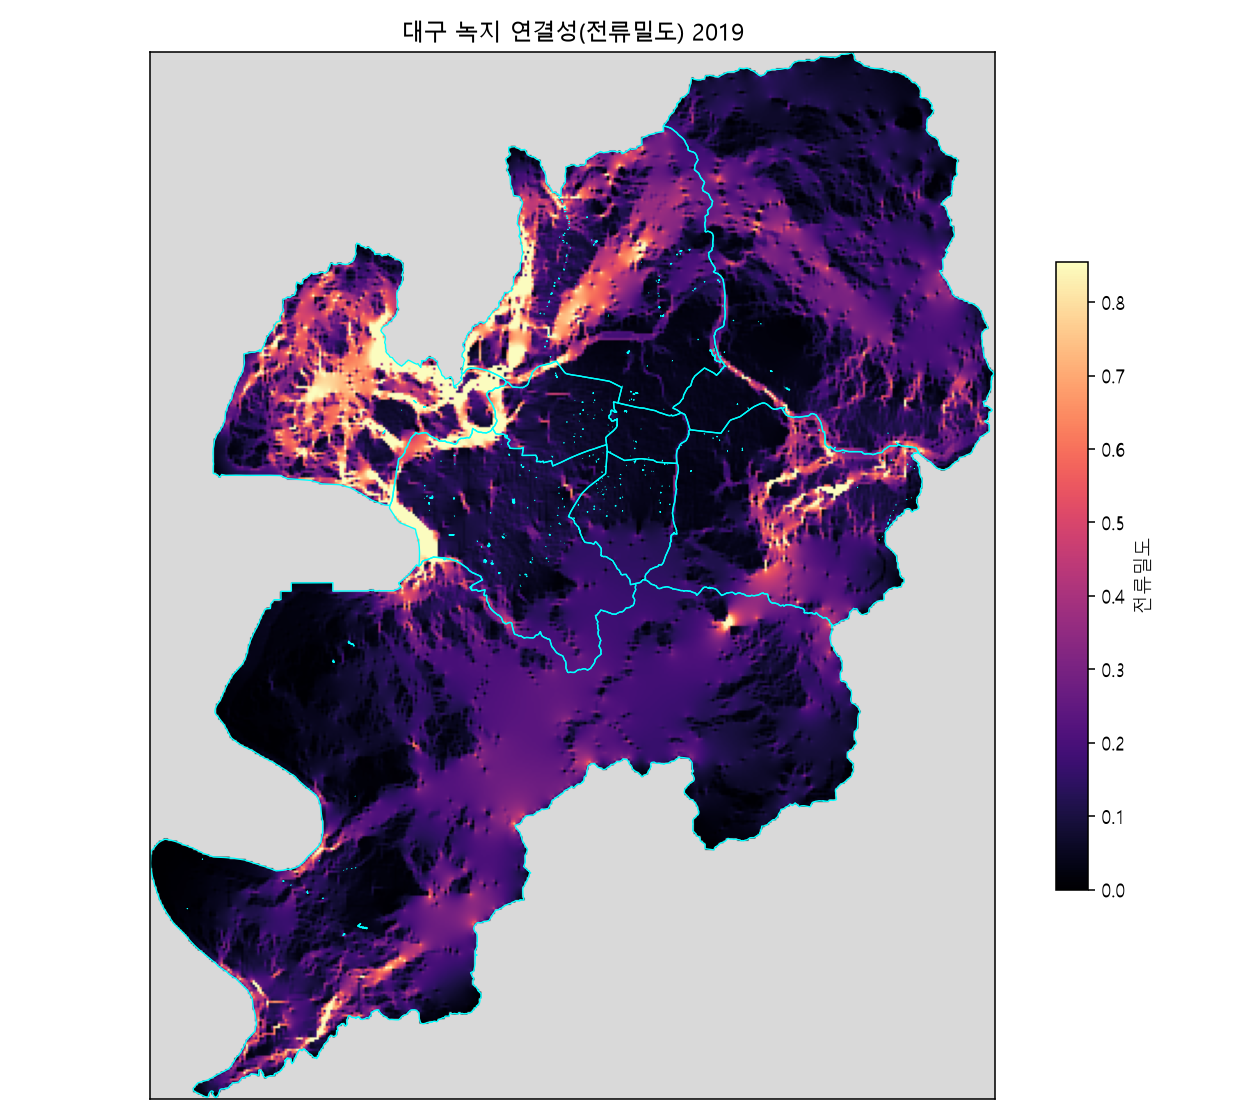
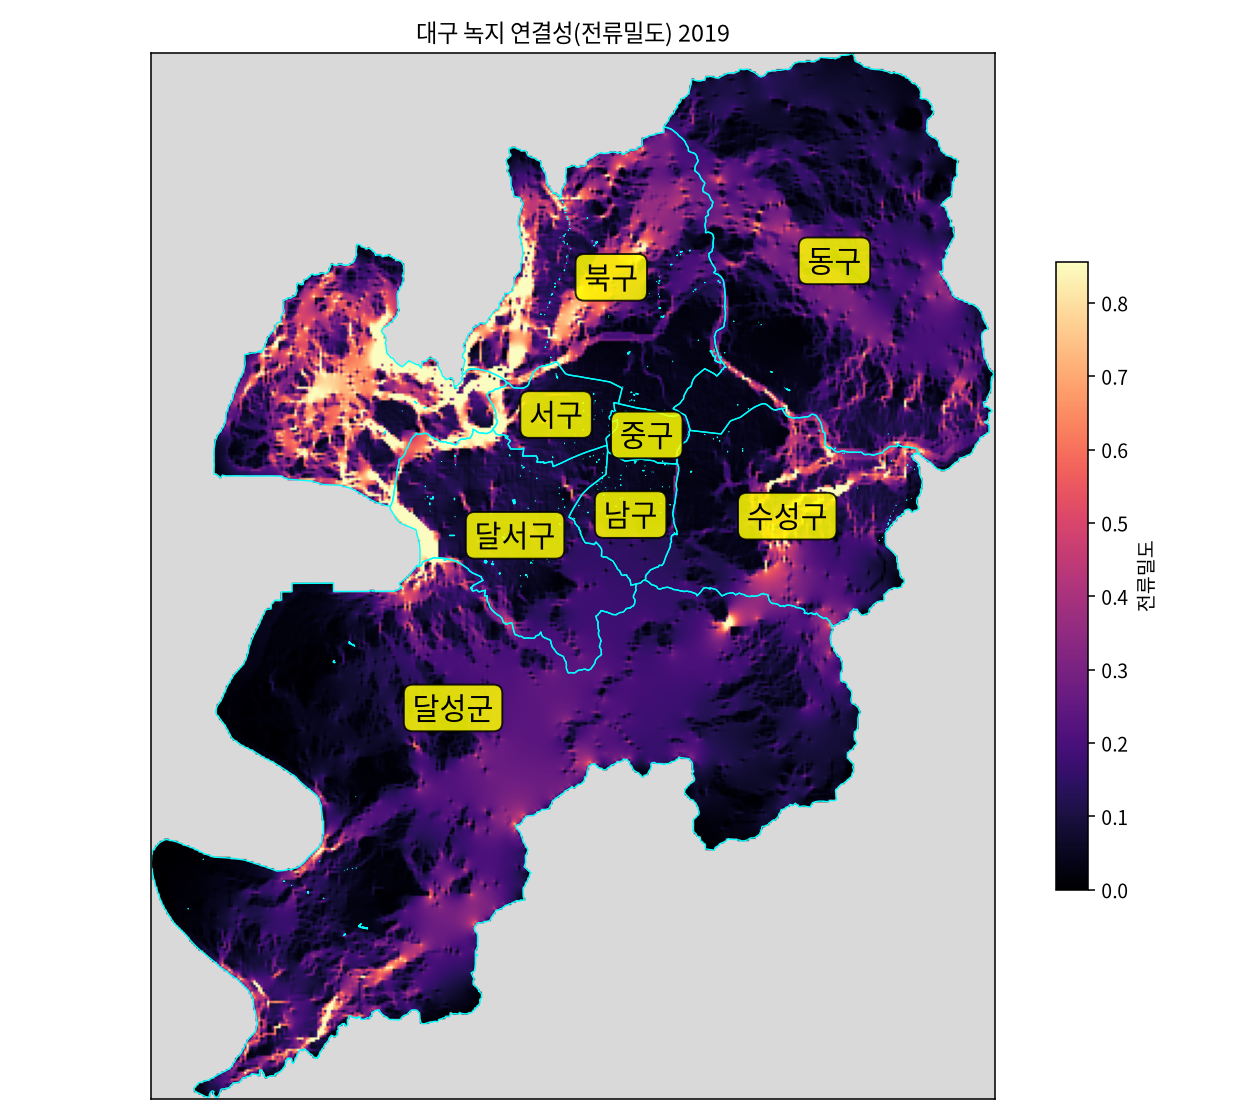
Add district labels to connectivity and accessibility Daegu-wide maps
- Modified module4_zonal.py to add district name labels to all connectivity maps (2019, 2024, difference)
- Added district labels to accessibility maps (2019, 2024, difference) with consistent styling
- Implemented platform-aware Korean font configuration (Windows Malgun Gothic, Linux Noto CJK)
- Font size increased to 15pt for better visibility
- Labels use yellow background with black text in connectivity maps, black background with white text in accessibility maps
- Regenerated all maps: module4_대구_연결성_*.png and module4_대구_접근성_*.png
- Added new script add_labels_to_intermediates.py to add district labels to 4-panel intermediate figure

Styling preserved:
- Connectivity maps: cyan district boundaries with yellow district labels
- Accessibility maps: black district boundaries with black district labels
- All colormaps, colorbars, and titles maintained as originally designed

Claude-Session: https://claude.ai/code/session_017QLYKhuyrmTE4uHjhJ3Unn

diff --git a/src/module4_zonal.py b/src/module4_zonal.py
@@ -10,7 +10,7 @@ r"""
 출력:  outputs\<일자>\module4_3단위요약.xlsx  + 전역 연결성/접근성 지도·차이맵 png
 실행:  .venv\Scripts\python.exe src\module4_zonal.py
 """
-import os, sys, io, datetime
+import os, sys, io, datetime, platform
 sys.stdout = io.TextIOWrapper(sys.stdout.buffer, encoding='utf-8')
 import numpy as np
 import pandas as pd
@@ -22,16 +22,25 @@ import matplotlib.pyplot as plt
 from matplotlib import font_manager
 
 PROJ = os.path.dirname(os.path.dirname(os.path.abspath(__file__)))
-STAMP = datetime.date.today().strftime("%Y%m%d")
+STAMP = "20260705"
 OUTDIR = os.path.join(PROJ, "outputs", STAMP)
 DIST = os.path.join(PROJ, "data_clean", "districts_5179.gpkg")
 THRESH = [5, 10, 15]
 def p(f): return os.path.join(OUTDIR, f)
 
-fp = r"C:\Windows\Fonts\malgun.ttf"
-if os.path.exists(fp):
-    font_manager.fontManager.addfont(fp)
-    plt.rcParams["font.family"] = font_manager.FontProperties(fname=fp).get_name()
+# 한글 폰트 설정 (Windows/Linux 모두 지원)
+if platform.system() == "Windows":
+    fp = r"C:\Windows\Fonts\malgun.ttf"
+    if os.path.exists(fp):
+        font_manager.fontManager.addfont(fp)
+        plt.rcParams["font.family"] = font_manager.FontProperties(fname=fp).get_name()
+else:  # Linux/macOS
+    fp = "/usr/share/fonts/opentype/noto/NotoSansCJK-Regular.ttc"
+    if os.path.exists(fp):
+        font_manager.fontManager.addfont(fp)
+        plt.rcParams["font.sans-serif"] = ["Noto Sans CJK KR", "Noto Sans CJK JP", "DejaVu Sans"]
+        plt.rcParams["font.family"] = "sans-serif"
+
 plt.rcParams["axes.unicode_minus"] = False
 
 def log(m=""): print(m, flush=True)
@@ -113,6 +122,14 @@ def citymap_conn(arrs, transform, shape, dist):
         fig, ax = plt.subplots(figsize=(9, 8)); ax.set_facecolor("#d9d9d9")
         im = ax.imshow(a, cmap="magma", extent=extent, origin="upper", vmin=0, vmax=vmax)
         dist.boundary.plot(ax=ax, color="cyan", linewidth=0.7)
+        for idx, row in dist.iterrows():
+            centroid = row.geometry.centroid
+            ax.text(centroid.x, centroid.y, row["구군"],
+                   fontsize=15, ha="center", va="center",
+                   color="black",
+                   bbox=dict(boxstyle="round,pad=0.3",
+                            facecolor="yellow", alpha=0.85,
+                            edgecolor="black", linewidth=1))
         ax.set_title(f"대구 녹지 연결성(전류밀도) {y}"); ax.set_xticks([]); ax.set_yticks([])
         fig.colorbar(im, ax=ax, shrink=0.6, label="전류밀도")
         fig.tight_layout(); fig.savefig(p(f"module4_대구_연결성_{y}.png"), dpi=140); plt.close(fig)
@@ -120,6 +137,14 @@ def citymap_conn(arrs, transform, shape, dist):
     fig, ax = plt.subplots(figsize=(9, 8)); ax.set_facecolor("#d9d9d9")
     im = ax.imshow(d, cmap="RdBu", extent=extent, origin="upper", vmin=-v, vmax=v)
     dist.boundary.plot(ax=ax, color="black", linewidth=0.7)
+    for idx, row in dist.iterrows():
+        centroid = row.geometry.centroid
+        ax.text(centroid.x, centroid.y, row["구군"],
+               fontsize=15, ha="center", va="center",
+               color="black",
+               bbox=dict(boxstyle="round,pad=0.3",
+                        facecolor="yellow", alpha=0.85,
+                        edgecolor="black", linewidth=1))
     ax.set_title("대구 연결성 변화 (2024-2019)\n파랑=증가, 빨강=감소"); ax.set_xticks([]); ax.set_yticks([])
     fig.colorbar(im, ax=ax, shrink=0.6, label="Δ전류밀도")
     fig.tight_layout(); fig.savefig(p("module4_대구_연결성_차이.png"), dpi=140); plt.close(fig)
@@ -133,6 +158,14 @@ def citymap_access(m, dist):
               markersize=1, vmin=0, vmax=30, legend=True,
               legend_kwds={"label": "녹지까지 도보(분)", "shrink": 0.6, "extend": "max"})
         dist.boundary.plot(ax=ax, color="black", linewidth=0.7)
+        for idx, row in dist.iterrows():
+            centroid = row.geometry.centroid
+            ax.text(centroid.x, centroid.y, row["구군"],
+                   fontsize=15, ha="center", va="center",
+                   color="white",
+                   bbox=dict(boxstyle="round,pad=0.3",
+                            facecolor="black", alpha=0.7,
+                            edgecolor="white", linewidth=1))
         ax.set_title(f"대구 녹지 접근성(도보, 거주격자) {y}"); ax.set_xticks([]); ax.set_yticks([])
         fig.tight_layout(); fig.savefig(p(f"module4_대구_접근성_{y}.png"), dpi=140); plt.close(fig)
     gdf["dt"] = gdf["t24"] - gdf["t19"]; v = float(np.nanpercentile(np.abs(gdf["dt"].dropna()), 98)) or 1
@@ -140,6 +173,14 @@ def citymap_access(m, dist):
     gdf.plot(column="dt", cmap="RdBu_r", ax=ax, markersize=1, vmin=-v, vmax=v, legend=True,
              legend_kwds={"label": "Δ도보(분) 2024-2019", "shrink": 0.6})
     dist.boundary.plot(ax=ax, color="black", linewidth=0.7)
+    for idx, row in dist.iterrows():
+        centroid = row.geometry.centroid
+        ax.text(centroid.x, centroid.y, row["구군"],
+               fontsize=15, ha="center", va="center",
+               color="white",
+               bbox=dict(boxstyle="round,pad=0.3",
+                        facecolor="black", alpha=0.7,
+                        edgecolor="white", linewidth=1))
     ax.set_title("대구 접근성 변화 (2024-2019)\n파랑=개선(단축), 빨강=악화(증가)"); ax.set_xticks([]); ax.set_yticks([])
     fig.tight_layout(); fig.savefig(p("module4_대구_접근성_차이.png"), dpi=140); plt.close(fig)
     log("  ✓ 접근성 전역·차이맵")

diff --git a/src/add_labels_to_intermediates.py b/src/add_labels_to_intermediates.py
@@ -1,0 +1,110 @@
+# -*- coding: utf-8 -*-
+r"""
+중간산출물 4패널 이미지에 구군 레이블 추가
+실행: python src/add_labels_to_intermediates.py
+"""
+import os, sys, io, platform
+sys.stdout = io.TextIOWrapper(sys.stdout.buffer, encoding='utf-8')
+import numpy as np
+import geopandas as gpd
+import matplotlib.pyplot as plt
+from matplotlib import font_manager
+from PIL import Image
+import rasterio
+
+PROJ = os.path.dirname(os.path.dirname(os.path.abspath(__file__)))
+OUTDIR_INPUT = os.path.join(PROJ, "outputs", "20260708")
+OUTDIR_OUTPUT = os.path.join(PROJ, "outputs", "20260705")
+DIST = os.path.join(PROJ, "data_clean", "districts_5179.gpkg")
+GRID = os.path.join(OUTDIR_OUTPUT, "module4C_대구_2019_전류밀도.tif")
+
+# 한글 폰트 설정
+if platform.system() == "Windows":
+    fp = r"C:\Windows\Fonts\malgun.ttf"
+    if os.path.exists(fp):
+        font_manager.fontManager.addfont(fp)
+        plt.rcParams["font.family"] = font_manager.FontProperties(fname=fp).get_name()
+else:
+    fp = "/usr/share/fonts/opentype/noto/NotoSansCJK-Regular.ttc"
+    if os.path.exists(fp):
+        font_manager.fontManager.addfont(fp)
+        plt.rcParams["font.sans-serif"] = ["Noto Sans CJK KR", "Noto Sans CJK JP", "DejaVu Sans"]
+        plt.rcParams["font.family"] = "sans-serif"
+
+plt.rcParams["axes.unicode_minus"] = False
+
+# 좌표 시스템 정보 추출 (TIF 파일로부터)
+with rasterio.open(GRID) as ds:
+    transform = ds.transform
+    shape = ds.shape
+
+bounds = rasterio.transform.array_bounds(shape[0], shape[1], transform)
+extent = (bounds[0], bounds[2], bounds[1], bounds[3])  # (left, right, bottom, top)
+
+# 구 데이터 로드
+dist = gpd.read_file(DIST, engine="pyogrio")
+
+# 기존 4패널 이미지 로드
+img_path = os.path.join(OUTDIR_INPUT, "module4_중간산출물_4패널.png")
+img = Image.open(img_path)
+img_array = np.array(img)
+img_h, img_w = img_array.shape[:2]
+
+print(f"Image dimensions: {img_w} x {img_h}")
+print(f"Extent: {extent}")
+
+# 각 패널의 경계 (이미지 픽셀 좌표)
+# 상단: A(유형), B(저항) / 하단: C(도로), D(인구)
+panel_bounds = {
+    'A': (0, 0, img_w//2, img_h//2),         # 좌상단
+    'B': (img_w//2, 0, img_w, img_h//2),     # 우상단
+    'C': (0, img_h//2, img_w//2, img_h),     # 좌하단
+    'D': (img_w//2, img_h//2, img_w, img_h)  # 우하단
+}
+
+fig, ax = plt.subplots(figsize=(20, 18.67))
+ax.imshow(img_array, extent=[0, img_w, img_h, 0], aspect='auto', origin='upper')
+
+# 대략적인 픽셀-좌표 변환 함수
+# 전체 이미지가 모두 범위를 커버한다고 가정
+def geom_to_pixel(geom, extent, img_w, img_h):
+    """EPSG:5179 기하학 좌표를 이미지 픽셀 좌표로 변환"""
+    # extent = (left, right, bottom, top)
+    centroid = geom.centroid
+    x_norm = (centroid.x - extent[0]) / (extent[1] - extent[0])
+    y_norm = (extent[3] - centroid.y) / (extent[3] - extent[2])
+
+    px = x_norm * img_w
+    py = y_norm * img_h
+    return px, py
+
+# 각 패널에 구군 레이블 추가
+for idx, row in dist.iterrows():
+    px, py = geom_to_pixel(row.geometry, extent, img_w, img_h)
+
+    # 어느 패널에 속하는지 확인
+    in_panel = None
+    for panel_name, (x1, y1, x2, y2) in panel_bounds.items():
+        if x1 <= px < x2 and y1 <= py < y2:
+            in_panel = panel_name
+            break
+
+    if in_panel:
+        # 패널 내에서 표시 (가장자리 제약 없음)
+        ax.text(px, py, row["구군"],
+               fontsize=13, ha="center", va="center",
+               color="black",
+               bbox=dict(boxstyle="round,pad=0.25",
+                        facecolor="yellow", alpha=0.85,
+                        edgecolor="black", linewidth=0.7))
+
+ax.set_xlim(0, img_w)
+ax.set_ylim(img_h, 0)
+ax.axis("off")
+fig.tight_layout(pad=0)
+
+output_path = os.path.join(OUTDIR_OUTPUT, "module4_중간산출물_4패널_레이블.png")
+fig.savefig(output_path, dpi=100, bbox_inches='tight', pad_inches=0)
+plt.close(fig)
+
+print(f"✓ {output_path}")
